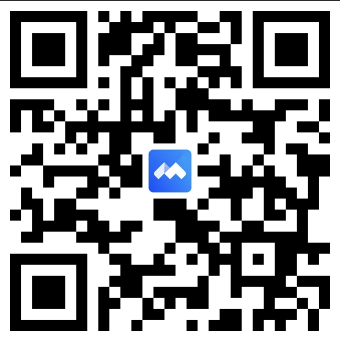
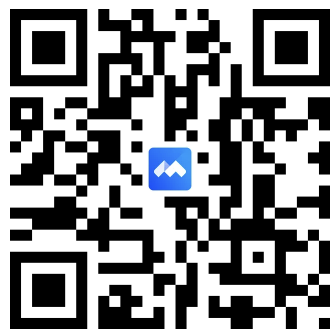
调整了第 1 周二维码图片大小

diff --git a/01-beginner/01.tutorial.md b/01-beginner/01.tutorial.md
@@ -29,11 +29,11 @@
 
 |浏览器观看|手机扫码观看|
 |----------------|----------|
-|[**Part 1. 安装 VS Code 和 Git**](https://meeting.tencent.com/crm/l5orX33Z77)</br>主要介绍了如何在苹果系统上录制操作，以及如何配置Windows系统的终端模拟器。首先，在苹果系统上，只需安装浏览器和VS Code代码编辑器即可。在Windows系统中，建议使用Windows终端模拟器，因为它能更好地模拟Unix终端。此外，还介绍了如何在Windows系统中配置终端模拟器，以及如何处理文件系统的缓存等问题。最后，强调了在实际操作中要注意兼容性和可移植性问题，并推荐使用Windows终端模拟器。(智能总结由机器自动生成，仅供参考)|![二维码](images/qr-week01-part1.png)|
-|[**Part 2. 安装 Anaconda**](https://meeting.tencent.com/crm/24yxkjLycf)</br>主要讲述了SSH密钥的安全性、Anaconda的python发行版及其使用方法。SSH密钥是一种加密技术，比传统密码更安全，通过公钥和私钥配对来验证身份。Anaconda是一个开源的python发行版，包含很多数据科学相关的库和工具，方便进行数据分析、机器学习等操作。在安装过程中，需要注意选择正确的路径和用户许可协议。此外，还讨论了Windows、苹果和Linux等不同操作系统上使用Anaconda的兼容性问题。总体来说，安娜康是一个方便实用的工具，但需要注意的是，在Windows上使用时可能会遇到一些兼容性问题。(智能总结由机器自动生成，仅供参考)|![二维码](images/qr-week01-part2.png)|
-|[**Part 3. 使用豆包与设置 SSH 密钥**](https://meeting.tencent.com/crm/NgW46nnZa4)</br>主要介绍了如何在Python命令行界面下进行程序演示，包括生成随机密码、配置SSH密钥、加密原理等。首先，通过import random和string定义函数generate，生成随机密码。其次，在终端中配置SSH密钥，以便在操作代码仓库时无需输入密码。此外，讲解了公钥私钥加密原理，即加密和解密使用不同的密钥，公钥用于加密，私钥用于解密。最后，强调了互联网安全的重要性，提醒大家在进行通讯时要保持警惕。(智能总结由机器自动生成，仅供参考)|![二维码](images/qr-week01-part3.png)|
-|[**Part 4. Git-Fork-PR 作业提交**](https://meeting.tencent.com/crm/N18Vkzq385)</br>主要讲述了开源协作中的代码提交、仓库克隆、文件保存、编译和运行等技术操作。首先，通过命令设置用户名和邮箱，将代码提交到共同代码仓库，以便追踪责任和查看贡献。其次，复制个人同名仓库的SSH地址，使用get clone命令克隆到本地。然后，使用read me查看软件功能和使用方法。接着，使用date命令查看文件差异，以便了解每次提交的差异。此外，介绍了多种语言和全球开发者的协作方式，以及如何保存文件名和编译运行。最后，强调了自学能力的重要性，鼓励大家在面对新问题时能够通过自学解决。(智能总结由机器自动生成，仅供参考)|![二维码](images/qr-week01-part4.png)|
-|[**Part 5. macOS 下安装的注意事项**](https://meeting.tencent.com/crm/KeXvMwm4aa)</br>主要讲述了如何在苹果电脑上进行软件开发。首先，需要安装命令行工具，这是一个第三方软件，但却是苹果系统必须要安装的。其次，需要设置环境变量，包括清华镜像的地址等。然后，通过git hub获取安装脚本，并按照步骤进行复制和粘贴。接下来，修改配置文件，使其适应每个人的需求。最后，运行命令行，使用终端和编辑器进行代码编写和运行。在软件开发过程中，需要习惯使用终端和编写程序，只有这种方式才是正确的使用计算机的方式。(智能总结由机器自动生成，仅供参考)|![二维码](images/qr-week01-part5.png)|
+|[**Part 1. 安装 VS Code 和 Git**](https://meeting.tencent.com/crm/l5orX33Z77)</br>主要介绍了如何在苹果系统上录制操作，以及如何配置Windows系统的终端模拟器。首先，在苹果系统上，只需安装浏览器和VS Code代码编辑器即可。在Windows系统中，建议使用Windows终端模拟器，因为它能更好地模拟Unix终端。此外，还介绍了如何在Windows系统中配置终端模拟器，以及如何处理文件系统的缓存等问题。最后，强调了在实际操作中要注意兼容性和可移植性问题，并推荐使用Windows终端模拟器。(智能总结由机器自动生成，仅供参考)|<img src="images/qr-week01-part1.png" alt="二维码" width="150">|
+|[**Part 2. 安装 Anaconda**](https://meeting.tencent.com/crm/24yxkjLycf)</br>主要讲述了SSH密钥的安全性、Anaconda的python发行版及其使用方法。SSH密钥是一种加密技术，比传统密码更安全，通过公钥和私钥配对来验证身份。Anaconda是一个开源的python发行版，包含很多数据科学相关的库和工具，方便进行数据分析、机器学习等操作。在安装过程中，需要注意选择正确的路径和用户许可协议。此外，还讨论了Windows、苹果和Linux等不同操作系统上使用Anaconda的兼容性问题。总体来说，安娜康是一个方便实用的工具，但需要注意的是，在Windows上使用时可能会遇到一些兼容性问题。(智能总结由机器自动生成，仅供参考)|<img src="images/qr-week01-part2.png" alt="二维码" width="150">|
+|[**Part 3. 使用豆包与设置 SSH 密钥**](https://meeting.tencent.com/crm/NgW46nnZa4)</br>主要介绍了如何在Python命令行界面下进行程序演示，包括生成随机密码、配置SSH密钥、加密原理等。首先，通过import random和string定义函数generate，生成随机密码。其次，在终端中配置SSH密钥，以便在操作代码仓库时无需输入密码。此外，讲解了公钥私钥加密原理，即加密和解密使用不同的密钥，公钥用于加密，私钥用于解密。最后，强调了互联网安全的重要性，提醒大家在进行通讯时要保持警惕。(智能总结由机器自动生成，仅供参考)|<img src="images/qr-week01-part3.png" alt="二维码" width="150">|
+|[**Part 4. Git-Fork-PR 作业提交**](https://meeting.tencent.com/crm/N18Vkzq385)</br>主要讲述了开源协作中的代码提交、仓库克隆、文件保存、编译和运行等技术操作。首先，通过命令设置用户名和邮箱，将代码提交到共同代码仓库，以便追踪责任和查看贡献。其次，复制个人同名仓库的SSH地址，使用get clone命令克隆到本地。然后，使用read me查看软件功能和使用方法。接着，使用date命令查看文件差异，以便了解每次提交的差异。此外，介绍了多种语言和全球开发者的协作方式，以及如何保存文件名和编译运行。最后，强调了自学能力的重要性，鼓励大家在面对新问题时能够通过自学解决。(智能总结由机器自动生成，仅供参考)|<img src="images/qr-week01-part4.png" alt="二维码" width="150">|
+|[**Part 5. macOS 下安装的注意事项**](https://meeting.tencent.com/crm/KeXvMwm4aa)</br>主要讲述了如何在苹果电脑上进行软件开发。首先，需要安装命令行工具，这是一个第三方软件，但却是苹果系统必须要安装的。其次，需要设置环境变量，包括清华镜像的地址等。然后，通过git hub获取安装脚本，并按照步骤进行复制和粘贴。接下来，修改配置文件，使其适应每个人的需求。最后，运行命令行，使用终端和编辑器进行代码编写和运行。在软件开发过程中，需要习惯使用终端和编写程序，只有这种方式才是正确的使用计算机的方式。(智能总结由机器自动生成，仅供参考)|<img src="images/qr-week01-part5.png" alt="二维码" width="150">|
 
 ## 一点指导
 
